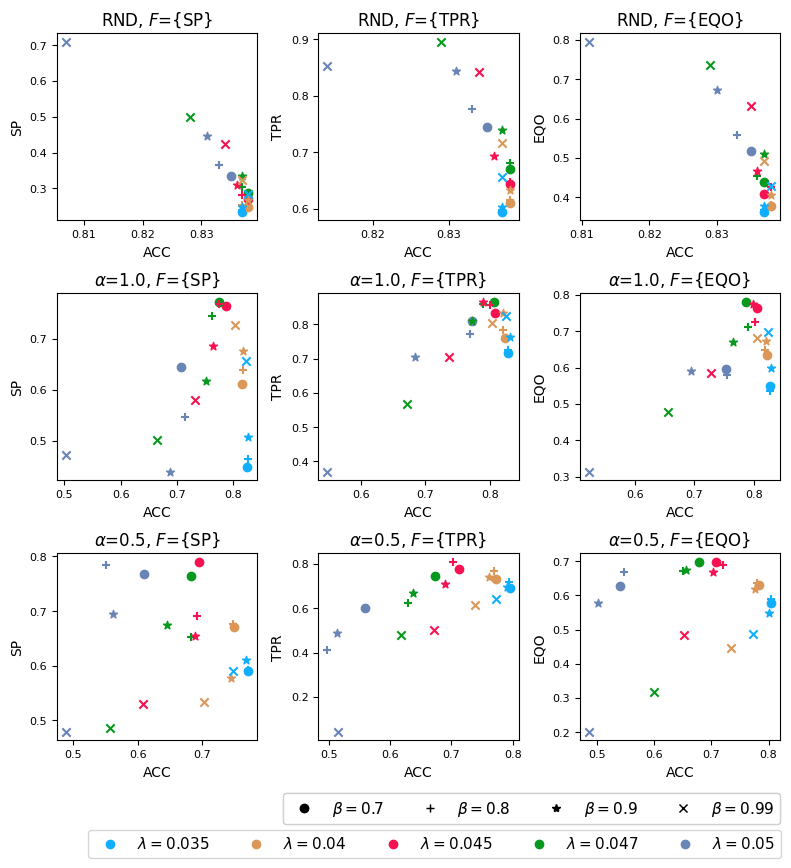
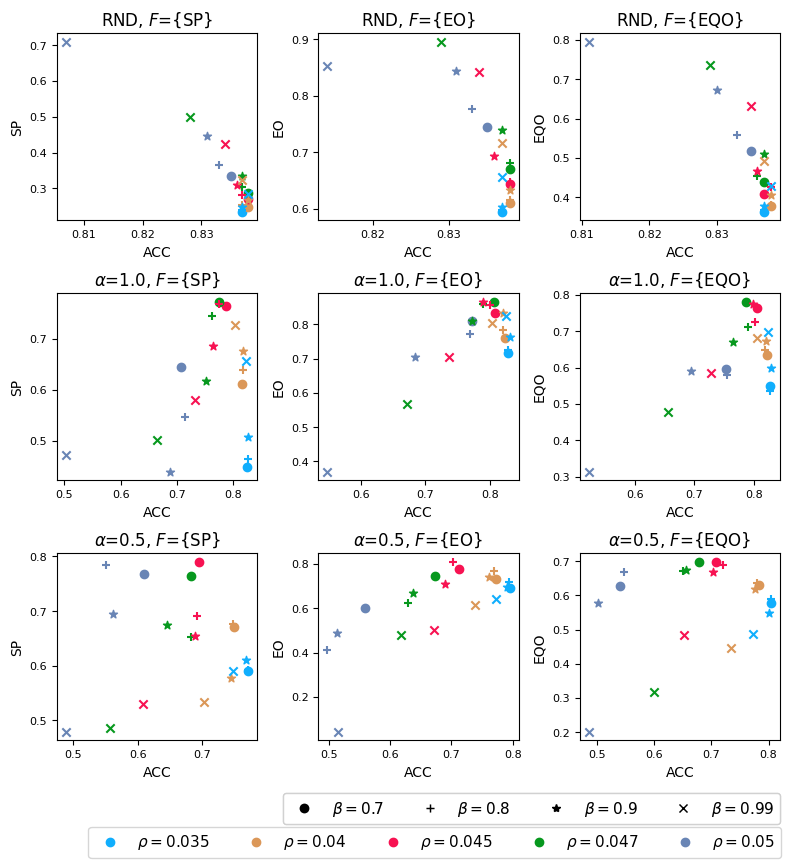
Prepares to run.

diff --git a/code/plots/pareto_front.py b/code/plots/pareto_front.py
@@ -5,20 +5,20 @@ from random import randint
 from code.plots.plot import get_dfs
 
 
-def plot_pareto_fronts(dataset_name, num_runs, fls_fair_fate_alpha_metric, metric_a, lambdas_, betas, filename):
+def plot_pareto_fronts(dataset_name, num_runs, fls_fair_fate_alpha_metric, metric_a, rhos_, betas, filename):
     metrics_results = ["ACC", "F1Score", "MCC", "SP_ratio", "TPR_ratio", "EQO_ratio"]
     plot_index = 1
     plt.figure(figsize=(8, 8))
 
-    lambdas_labels = [r'$\lambda={}$'.format(l) for l in lambdas_]
+    rhos_labels = [r'$\rho={}$'.format(l) for l in rhos_]
     betas_labels = [r'$\beta={}$'.format(b) for b in betas]
-    colors = get_random_colors(len(lambdas_))
+    colors = get_random_colors(len(rhos_))
     markers = ["o", "+", "*", "x", "v"]
 
     for fls_fair_fate in fls_fair_fate_alpha_metric:
         alpha, metrics_F, fls = fls_fair_fate
         dfs_fair_fate = get_dfs(fls, dataset_name, num_runs, metrics_results, metrics_F, False)
-        plot_pareto_front(dfs_fair_fate, fls, metrics_F, metric_a, alpha, plot_index, lambdas_, betas, colors, markers)
+        plot_pareto_front(dfs_fair_fate, fls, metrics_F, metric_a, alpha, plot_index, rhos_, betas, colors, markers)
         plot_index += 1
 
     plt.tight_layout(h_pad=0.75, w_pad=0.75)
@@ -27,9 +27,9 @@ def plot_pareto_fronts(dataset_name, num_runs, fls_fair_fate_alpha_metric, metri
         coords = [(-2.63, -0.63), (-1.6, -0.45)]
     else:
         coords = [(-2.45, -0.63), (-1.48, -0.45)]
-    lambda_handles = [plt.plot([], [], color=colors[i], marker="o", ls="")[0] for i in range(len(colors))]
-    lambda_legend = plt.legend(handles=lambda_handles, labels=lambdas_labels, loc=coords[0], prop={'size': 11}, ncol=len(lambda_handles))
-    plt.gca().add_artist(lambda_legend)
+    rho_handles = [plt.plot([], [], color=colors[i], marker="o", ls="")[0] for i in range(len(colors))]
+    rho_legend = plt.legend(handles=rho_handles, labels=rhos_labels, loc=coords[0], prop={'size': 11}, ncol=len(rho_handles))
+    plt.gca().add_artist(rho_legend)
     beta_handles = [plt.plot([], [], color="black", marker=markers[i], ls="")[0] for i in range(len(markers[:len(betas_labels)]))]
     beta_legend = plt.legend(handles=beta_handles, labels=betas_labels, loc=coords[1], prop={'size': 11}, ncol=len(betas_labels))
     plt.gca().add_artist(beta_legend)
@@ -48,21 +48,21 @@ def get_random_colors(size):
     return colors
 
 
-def plot_pareto_front(dfs, fls, metric_F, metric_a, alpha, plot_index, lambdas_set, betas_set, colors, markers):
+def plot_pareto_front(dfs, fls, metric_F, metric_a, alpha, plot_index, rhos_set, betas_set, colors, markers):
     x = []
     y = []
     costs = []
     labels = []
-    lambdas_ = []
+    rhos_ = []
     betas = []
 
     for i in range(len(dfs)):
         label_split = fls[i].split("_")
-        lambda_ = label_split[3][1:]
+        rho_ = label_split[3][1:]
         beta = label_split[5]
-        lambdas_.append(float(lambda_))
+        rhos_.append(float(rho_))
         betas.append(float(beta))
-        labels.append(r'$\lambda={}-\beta={}$'.format(lambda_, beta))
+        labels.append(r'$\rho={}-\beta={}$'.format(rho_, beta))
 
         value_a = dfs[i][metric_a].iloc[-1]
         value_b = dfs[i][metric_F].iloc[-1]
@@ -70,7 +70,7 @@ def plot_pareto_front(dfs, fls, metric_F, metric_a, alpha, plot_index, lambdas_s
         y.append(value_b)
         costs.append([x, y])
 
-    metric_fairness = metric_F[0].replace("_ratio", "")
+    metric_fairness = metric_F[0].replace("_ratio", "").replace("TPR", "EO")
     if alpha:
         title = r'$\alpha$={}, $F$={{{}}}'.format(alpha, metric_fairness)
     else:
@@ -83,8 +83,8 @@ def plot_pareto_front(dfs, fls, metric_F, metric_a, alpha, plot_index, lambdas_s
     plt.yticks(fontsize=8)
 
     for i in range(len(x)):
-        lambda_ = lambdas_[i]
-        lambda_index = lambdas_set.index(lambda_)
+        rho_ = rhos_[i]
+        rho_index = rhos_set.index(rho_)
         beta = betas[i]
         beta_index = betas_set.index(beta)
-        plt.scatter(x[i], y[i], color=colors[lambda_index], marker=markers[beta_index])
+        plt.scatter(x[i], y[i], color=colors[rho_index], marker=markers[beta_index])

diff --git a/code/run.py b/code/run.py
@@ -10,7 +10,7 @@ from code.tensorflow.datasets_creator import get_tf_train_dataset, make_federate
 def run(dataset, num_rounds, num_runs, fl, alpha=None):
     n_clients = dataset.number_of_clients
 
-    for run in range(1, num_runs + 1):
+    for run in range(10, num_runs + 1):
         print('RUN {:2d}'.format(run))
         seed = run * 10
         set_random_seeds(seed)
